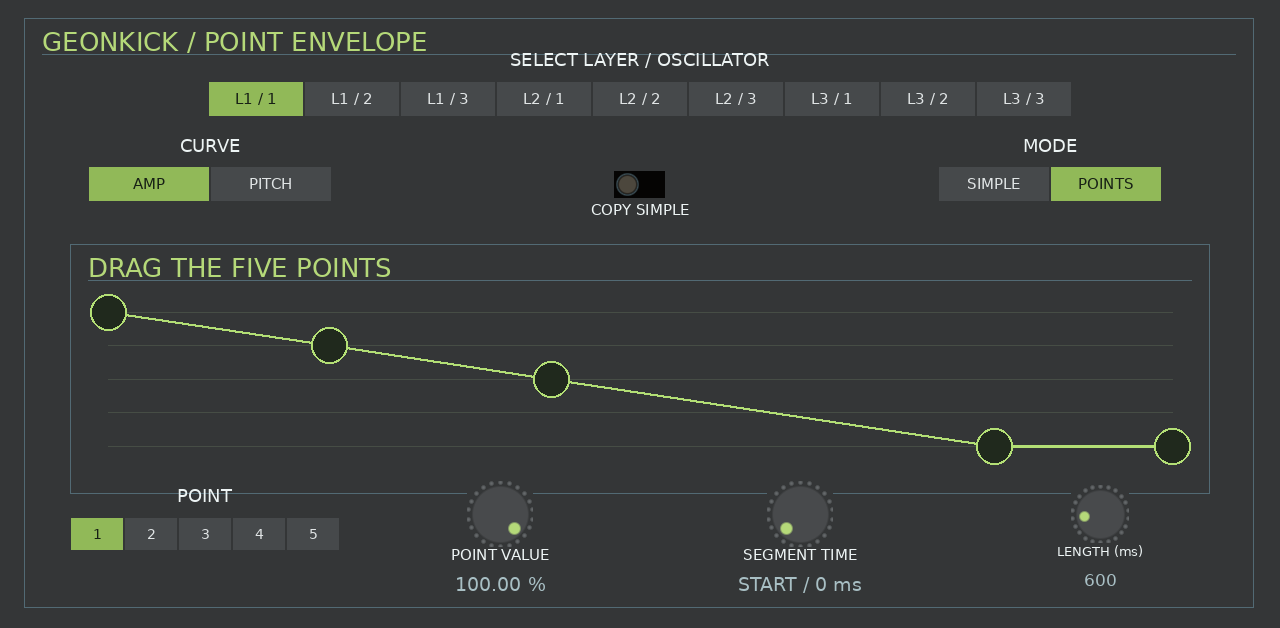
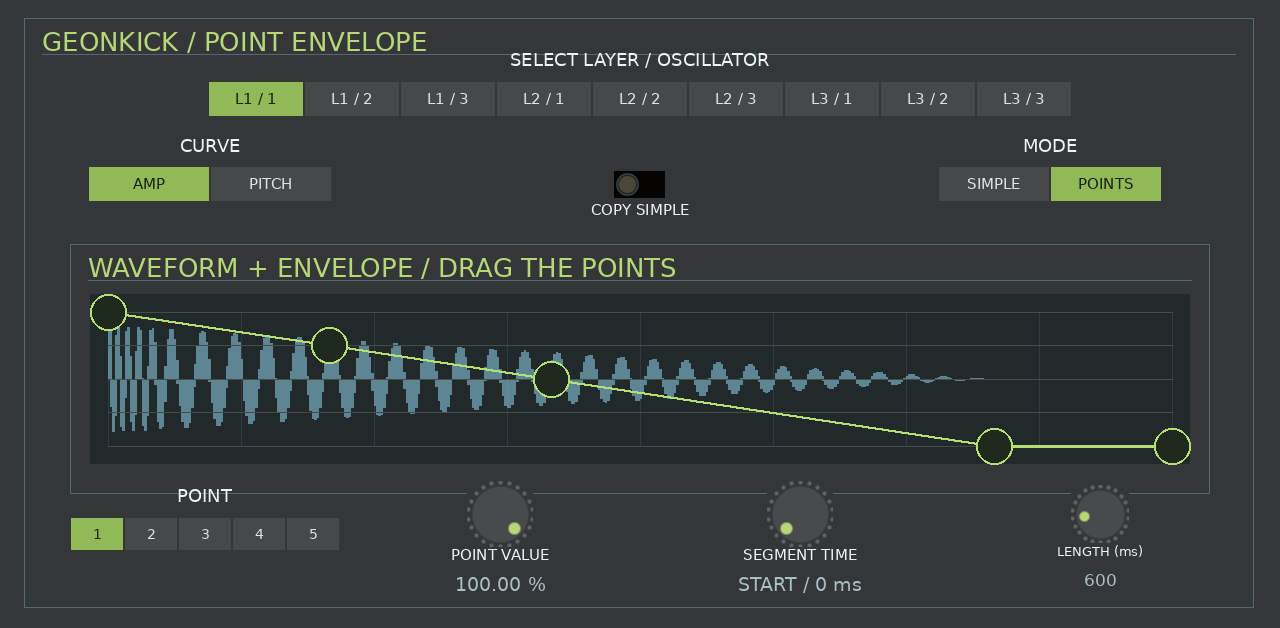
Show rendered waveform under touch-only envelope points in 0.0.13

Changed region(s): [[0.0625, 0.5143, 0.7188, 0.6959], [0.0625, 0.3933, 0.5312, 0.4538]]

diff --git a/tools/finish_skin.py b/tools/finish_skin.py
@@ -200,15 +200,47 @@ envelope_data={
 }
 item=shadow_skin._local('gkPointEnvelope',[],[shadow_skin._sub('Envelope',envelope_data,shadow_skin._bounds(0,0,1100,170),'Curve')])
 page['componentDefinitions']['localComponentDefinitions'].append(item)
-message=Image.new('RGBA',(1100,210),(0,0,0,0));draw=ImageDraw.Draw(message)
-font=ImageFont.truetype(str(root/'art/DejaVuSans.ttf'),24)
-for y,text in [(62,'SIMPLE ENVELOPE ACTIVE'),(108,'Choose POINTS to edit the existing curve.'),(149,'COPY SIMPLE replaces the five points with the current Amp / Pitch settings.')]:
-    draw.text((550,y),text,font=font,anchor='mm',fill='#d7e0d1')
+# Waveform is behind the native editor, so its touch handles remain on top.
+# Reuse the existing shared revision and read-only sound columns.
+for width in (2,3):
+    for channel in ('p','n'):
+        filename=f'plot_edit_{channel}_{width}.png';shutil.copy2(root/'art'/filename,path.parent/filename)
+        item=shadow_skin._local(f'gkEditWave_{channel}_{width}',[],[shadow_skin._sub('Knob',{
+            'version':5,'knobType':'FilmStrip','filmStrip':filename,'numFrames':PLOT_WAVE_LEVELS,
+            'invert':False,'dragOrientation':'Vertical','handleName':'Data'
+        },shadow_skin._bounds(0,0,width,67),'Waveform')])
+        item['value']['ignoreMousePresses']=True
+        page['componentDefinitions']['localComponentDefinitions'].append(item)
+background=Image.new('RGB',(1100,170),'#22292b');draw=ImageDraw.Draw(background)
+for j in range(9):
+    x=18+round(j*1064/8);draw.line((x,18,x,152),fill='#303c3f')
+draw.line((18,85,1082,85),fill='#61747b')
+background.save(path.parent/'point-wave-background.png')
+message=Image.new('RGBA',(1100,22),(0,0,0,0));draw=ImageDraw.Draw(message)
+font=ImageFont.truetype(str(root/'art/DejaVuSans.ttf'),14)
+draw.text((550,11),'SIMPLE ACTIVE / Choose POINTS to edit this envelope over the rendered sound.',font=font,anchor='mm',fill='#d7e0d1')
 message.save(path.parent/'point-simple.png')
 for tab in page['tabs']:
     if tab['fnKeyIndex']!=6:continue
     children=defs[tab['componentName']]['componentsData']
-    note=shadow_skin._sub('Image',{'version':2,'imageType':'Regular','colour':'0','image':'point-simple.png'},shadow_skin._bounds(90,264,1100,210),'Simple envelope')
+    # Clone actions per placed control so other tabs keep their Q-Link behavior.
+    for child in children:
+        mapping=child.get('handle remapping',{}).get('map',[])
+        if any(m.get('key')=='Data' and m.get('value')=='Parameter '+str(ids[k]) for k in ('point_select','point_level_fine','point_time_fine','point_copy') for m in mapping):
+            original=defs.get(child['componentData']['type'])
+            if original:
+                key=child['componentData']['type']+'_pointTouchOnly';clone=deepcopy(original)
+                clone['actions']=[a for a in clone.get('actions',[]) if a.get('handler')!='Q-Link']
+                defs[key]=clone;page['componentDefinitions']['localComponentDefinitions'].append({'key':key,'value':clone})
+                child['componentData']['type']=key;child['bounds']['acceptsHWFocus']='No'
+    children.append(shadow_skin._sub('Image',{'version':2,'imageType':'Regular','colour':'0','image':'point-wave-background.png'},shadow_skin._bounds(90,294,1100,170),'Waveform background'))
+    for column in range(PLOT_COLUMNS):
+        left=108+column*1064//PLOT_COLUMNS;right=108+(column+1)*1064//PLOT_COLUMNS
+        for channel,y in (('p',312),('n',379)):
+            child=shadow_skin._placed(f'gkEditWave_{channel}_{right-left}','Rendered sound',ids[f'viz_{channel}_{column}'],left,y+86,right-left,67,focus='No')
+            child['bounds']['additionalInvalidatingHandles']=['Parameter '+str(ids['graph_revision'])]
+            children.append(child)
+    note=shadow_skin._sub('Image',{'version':2,'imageType':'Regular','colour':'0','image':'point-simple.png'},shadow_skin._bounds(90,466,1100,22),'Simple envelope')
     note['bounds']['additionalInvalidatingHandles']=['IndexedEnabling/0/2/Parameter '+str(ids['ui_point_mode'])]
     children.append(note)
     for osc in range(1,10):

diff --git a/tools/check_point_skin.py b/tools/check_point_skin.py
@@ -7,7 +7,7 @@ params=json.loads((root/'params.json').read_text())['params'];ids={p['key']:i fo
 page=json.loads(next((root/'build/skin').glob('*/Plugin Skins/TUI.json')).read_text())['pageData']
 defs={d['key']:d['value'] for d in page['componentDefinitions']['localComponentDefinitions']}
 assert len(params)==1782
-previous=json.loads(subprocess.check_output(['git','show','712500a:params.json'],cwd=root))['params']
+previous=json.loads(subprocess.check_output(['git','show','f3cd9a7:params.json'],cwd=root))['params']
 assert params[:len(previous)]==previous,'Changed previous VST identities/ranges/defaults'
 for tab in page['tabs']:
     if tab['fnKeyIndex']!=6:continue
@@ -27,3 +27,25 @@ for tab in page['tabs']:
         assert any(p['componentData']['type']=='Knob' and p['componentData']['data']['handleName']=='Touch' for p in d['componentsData'])
         assert {'key':'Touch','value':'Parameter '+str(ids[key.replace('_fine','_drag')])} in c['handle remapping']['map']
 print('1782 append-only VST parameters; 18 native envelopes / 162 point handles; conditional modes and fine/direct point knob bindings PASS')
+# Editor draws the same completed sound behind the draggable curve. No new
+# data channel or per-column host callback path is introduced by this skin.
+for tab in page['tabs']:
+    if tab['fnKeyIndex']!=6:continue
+    children=defs[tab['componentName']]['componentsData']
+    wave=[(i,c) for i,c in enumerate(children) if c['componentData']['type'].startswith('gkEditWave_')]
+    assert len(wave)==864
+    first_curve=min(i for i,c in enumerate(children) if c['componentData']['type']=='gkPointEnvelope')
+    assert max(i for i,c in wave)<first_curve
+    for _,c in wave:
+        assert c['bounds']['additionalInvalidatingHandles']==['Parameter '+str(ids['graph_revision'])]
+        assert defs[c['componentData']['type']]['ignoreMousePresses']
+    point_keys=['point_select','point_level_fine','point_time_fine','point_copy']
+    for c in children:
+        if any(m.get('key')=='Data' and m.get('value')=='Parameter '+str(ids[k]) for k in point_keys for m in c.get('handle remapping',{}).get('map',[])):
+            assert c['bounds']['acceptsHWFocus']=='No'
+            assert not any(a.get('handler')=='Q-Link' for a in defs[c['componentData']['type']].get('actions',[]))
+q=json.loads(next((root/'build/skin').glob('*/Plugin Skins/Q-Links.json')).read_text())
+for m in q['Screen Mode Q-Links']['map']:
+    if m.get('Tab')==7:
+        assert all(v in (-1,ids['length_ms']) for v in m['Q-Links'].values())
+print('Rendered waveform below native point editor, shared quiet-time invalidation and touch-only point controls PASS')

diff --git a/tools/spec.py b/tools/spec.py
@@ -238,7 +238,7 @@ qlink_bounds=column
               'enum_h cx=640 cy=185 sw=94 sh=34 label="SELECT LAYER / OSCILLATOR" key=plot_osc',
               'enum_h cx=210 cy=270 sw=120 sh=34 label="CURVE" key=plot_env options="AMP,PITCH"',
               'toggle cx=640 cy=270 bw=220 label="COPY SIMPLE" key=point_copy',
-              'frame x=70 y=330 w=1140 h=250 title="DRAG THE FIVE POINTS"',
+              'frame x=70 y=330 w=1140 h=250 title="WAVEFORM + ENVELOPE / DRAG THE POINTS"',
               'enum_h cx=205 cy=620 sw=52 sh=32 label="POINT" key=point_select',
               'knob cx=500 cy=600 r=28 bw=220 ns=15 vs=19 label="POINT VALUE" key=point_level_fine when=ui_point_mode:1',
               'knob cx=800 cy=600 r=28 bw=220 ns=15 vs=19 label="SEGMENT TIME" key=point_time_fine when=ui_point_mode:1',
@@ -247,7 +247,7 @@ qlink_bounds=column
         for mode,kind in enumerate(('a','p')):
             target=(osc-1)*2+mode
             lines.append(f'enum_h cx=1050 cy=270 sw=110 sh=34 label="MODE" key=o{osc}_{kind}_mode when=ui_point_target:{target}')
-    lines += ['qlinks "ENVELOPE" = point_select,plot_osc,-,-,point_level_fine,plot_env,-,-,point_time_fine,-,-,-,length_ms,point_copy,-,-']
+    lines += ['qlinks "ENVELOPE" = -,-,-,-,-,-,-,-,-,-,-,-,length_ms,-,-,-']
     # The physical Hz/seconds controls remain for state/old automation. Visible
     # controls use appended fine pitch and millisecond adapters, never reindexing.
     import re

diff --git a/tools/plot_assets.py b/tools/plot_assets.py
@@ -28,3 +28,14 @@ for i in range(9):
     x=30+i*108;d.line((x,23,x,214),fill='#3D4041',width=1)
 d.line((30,119,894,119),fill='#74797B',width=1)
 grid.save(root/'art/plot_grid.png')
+
+# The editor shares the existing 432 actual-sound columns. Only the painted
+# width/height/colour differs; no second sound or display-data path is added.
+for width in (2,3):
+    for channel in ('p','n'):
+        height=67;im=Image.new('RGBA',(width,height*PLOT_WAVE_LEVELS),(0,0,0,0));draw=ImageDraw.Draw(im)
+        for frame in range(1,PLOT_WAVE_LEVELS):
+            length=max(1,round(frame/(PLOT_WAVE_LEVELS-1)*height))
+            y=frame*height+(height-length if channel=='p' else 0)
+            draw.rectangle((0,y,width-1,y+length-1),fill=(111,158,177,200))
+        im.save(root/'art'/f'plot_edit_{channel}_{width}.png')

diff --git a/docs/ENVELOPE-EDITOR.md b/docs/ENVELOPE-EDITOR.md
@@ -1,4 +1,4 @@
-# Point-envelope editor — 0.0.12 prototype
+# Point-envelope editor — 0.0.13 prototype
 
 The pinned original Geonkick UI adds points in `src/envelope_draw_area.cpp`
 (double-click), moves selected points on mouse drag, and removes points through
@@ -14,8 +14,8 @@ Original source: [Geonkick envelope editing](https://github.com/quamplex/geonkic
 The MPC native Envelope component is documented in the local MPC porting
 reference as a draggable fixed five-level/four-time editor (Pitch type), tested
 on a Live III in another port. This is a promising native interaction route;
-0.0.12 implements its parameter bindings in Geonkick MPC, with hardware acceptance
-still pending. The regular
+0.0.12 implements its parameter bindings in Geonkick MPC, with two-dimensional dragging confirmed by the user on Live III.
+The waveform overlay added in 0.0.13 still needs acceptance. The regular
 VST skin does not currently give this adapter raw touch coordinates for a free
 custom drawing area.
 
@@ -23,7 +23,7 @@ The current local prototype:
 
 - Shows a selected oscillator's amplitude or pitch envelope on a separate ENVELOPE tab.
 - Uses the native fixed-point editor, with large touch handles and continuous
-  touch coordinates; keep Q-Link entry precise for the selected point.
+  touch coordinates; point editing is Touch-only from 0.0.13.
 - Adds explicit point-envelope storage and a versioned state migration, retaining
   the existing simple attack/decay mode and the eight starting sounds.
 - Maps and validates point order, segment time, levels and pitch scale; avoid
@@ -58,8 +58,9 @@ Segment Time readout is START / 0 ms and time edits there do nothing. The final
 point is at the end of the sound. There are no crossing or zero-length segments.
 
 Drag handles for direct entry, or choose POINT 1–5 and edit POINT VALUE /
-SEGMENT TIME. Touch knobs are continuous; Q-Links/data wheel step by 0.0001 of
-the stored level/weight. The curve uses the existing synthesis worker and shared
+SEGMENT TIME. Touch knobs are continuous. Point selection, values and Copy Simple have no
+Q-Link assignment or hardware focus from 0.0.13. Fine aliases remain internally
+for compatibility, not as current point-control Q-Link bindings. The curve uses the existing synthesis worker and shared
 quiet-time graph refresh. The native editor geometry is host-rendered; offline
 previews approximate it and cannot prove the actual touch behavior.
 
@@ -72,5 +73,11 @@ curves stay local to their oscillator and Amp/Pitch target.
 Native component schema reference:
 [MPC Plugin Builder SDK ui-reference.md](https://github.com/inmusic-software/mpc-plugin-builder-sdk/blob/febd2ca5bd9eb16c4a412837196e145566bc981b/docs/ui-reference.md#613-envelope-and-envelopeoverlay-advanced-test-on-hardware).
 No proprietary SDK or stock artwork is bundled. The temporary input diagnostic
-is disabled in 0.0.12. Per user instruction this build is prepared locally only;
-no installation, MPC restart or device interaction is part of its verification.
+is disabled in 0.0.12. 0.0.12 was initially prepared locally, then installed at the user’s request.
+The user confirmed point dragging works but requested simultaneous waveform
+visibility. 0.0.13 adds the same completed mixed-sound waveform behind the
+editable curve, using existing read-only columns and shared revision. Read-only
+waveform widgets ignore touch; the native Envelope sits above them. Simple mode
+also shows the waveform. Graph feedback still follows the 180 ms quiet interval.
+Waveform time positions follow the full current sound length; native Envelope
+geometry remains host-controlled and needs alignment checks on the device.

diff --git a/README.md b/README.md
@@ -4,11 +4,13 @@ The MPC adapter, build scripts and interface are AI-generated. The user has test
 problems. The user confirmed the real value jumps are resolved in 0.0.10; a brief
 visual knob rebound remained. Version 0.0.11 separates direct continuous Touch
 handles from fine Q-Link/data-wheel handles on the same physical parameter.
-The user confirmed the 0.0.11 changes work. Version 0.0.12 adds a native fixed-point Amp/Pitch envelope editor; this new editor has not been hardware-tested. The original Geonkick DSP is the
+The user confirmed the 0.0.11 changes work. The user confirmed that 0.0.12 point handles can be dragged in two dimensions.
+Version 0.0.13 adds the completed sound waveform behind those handles and removes
+point-editing Q-Link assignments; the combined view still needs device acceptance. The original Geonkick DSP is the
 work of Iurie Nistor and contributors, not AI-generated.
 
 Development port of [Geonkick 3.9.0](https://github.com/quamplex/geonkick) for
-Gen2 MPCs (aarch64), targeting MPC OS 3.10.1+. Version 0.0.12 is a playable
+Gen2 MPCs (aarch64), targeting MPC OS 3.10.1+. Version 0.0.13 is a playable
 single-instrument prototype, not the complete desktop application.
 
 Implemented:
@@ -50,10 +52,11 @@ Implemented:
 - Thin sliders retain their original visible pixels with transparent padded
   native hit areas (64 pixels high for the main envelope sliders).
 - Native ENVELOPE page: five linear points for Amp and Pitch on each of the
-  nine oscillators, 36-pixel touch handles, fine selected-point Q-Link controls,
+  nine oscillators, 36-pixel touch handles, touch-only selected-point controls,
   Simple/Points modes and Copy Simple. First activation copies the existing curve.
-  Custom points and mode are saved per oscillator/envelope. Hardware acceptance
-  of native curve geometry and gestures is pending.
+  Custom points and mode are saved per oscillator/envelope. The user confirmed dragging on MPC; waveform/curve alignment in the combined
+  view still requires acceptance. The waveform represents the complete mixed
+  hit, with the selected oscillator’s Amp/Pitch points above it.
 - Touch gestures use independent continuous handles for all 46 fine controls.
   Q-Link/data-wheel selection and mapping stay fine; both routes share saved
   physical values. The visible knob follows the direct Touch value, avoiding
@@ -81,7 +84,8 @@ VST (edited Init, 35 ms attack). This is not a device screenshot.
 ![Five-point Amp editor, offline layout preview](docs/screenshots/envelope-amp.png)
 
 Point-editor layout preview uses actual VST values with an approximation of
-the native Envelope geometry. Hardware gestures and geometry remain untested.
+the native Envelope geometry. The user confirmed dragging in 0.0.12; combined
+waveform/curve geometry and redraw performance still require acceptance.
 
 See [BEDIENUNG.md](BEDIENUNG.md) for a German control guide and
 [UI-DESIGN.md](UI-DESIGN.md) for the visualization and editing limits.

diff --git a/BEDIENUNG.md b/BEDIENUNG.md
@@ -1,4 +1,4 @@
-# Geonkick MPC bedienen — 0.0.12
+# Geonkick MPC bedienen — 0.0.13
 
 Ein Plugin erzeugt einen Drum-Sound aus drei Layern mit je drei Oszillatoren.
 Für eine Kick genügt zunächst Layer 1, OSC 1. Layer 2 und 3 starten stumm;
@@ -86,7 +86,7 @@ implementiert; siehe [Machbarkeit](docs/ENVELOPE-EDITOR.md).
 Layer/Oszillator und AMP oder PITCH wählen, dann POINTS. Beim ersten Wechsel
 wird die bisherige einfache Kurve übernommen. Die fünf Kreise lassen sich per
 Touch verschieben; alternativ POINT 1–5 auswählen und POINT VALUE bzw.
-SEGMENT TIME verwenden. Q-Links und Datenrad arbeiten fein, Touch direkt.
+SEGMENT TIME verwenden. Die Punktbearbeitung läuft nur per Touch, ohne Q-Link-Zuweisungen.
 Punkt 1 bleibt bei Zeit null, Punkt 5 am Klangende. LENGTH bestimmt die Gesamtlänge.
 Die vier Abschnittszeiten sind relative Gewichte: Ein längerer Abschnitt verkürzt
 anteilig die anderen. Beim ersten Punkt zeigt die Zeit START / 0 ms.
@@ -98,4 +98,9 @@ den anderen Seiten aktivieren wieder SIMPLE für diese Kurve.
 Amp-Werte sind Prozent, Pitch-Werte Hz (20 Hz bis maximal 16 × Grundfrequenz,
 begrenzt auf 20 kHz). Die Grundfrequenz skaliert die eigene Pitch-Kurve mit.
 Punkte werden im Projekt gespeichert. Freies Hinzufügen/Löschen und Bezier
-folgen später. Der neue native Punkteditor ist noch nicht auf der MPC geprüft.
+folgen später. Das zweidimensionale Verschieben der Punkte wurde auf der MPC bestätigt.
+Ab 0.0.13 bleibt die Wellenform des gesamten gemischten Klangs direkt hinter
+den grünen Hüllkurvenpunkten sichtbar. Sie zeigt den zuletzt fertig berechneten
+Klang und aktualisiert sich nach einer kurzen Bedienpause. Die Kurve darüber
+gehört zum ausgewählten Oszillator (AMP/PITCH). Nur LENGTH behält auf diesem
+Reiter einen Q-Link; Punktwahl, Punktwerte und Copy Simple sind Touch-Bedienung.

diff --git a/TESTING.md b/TESTING.md
@@ -335,3 +335,27 @@ OpenMPC catalog/package validation reports zero warnings. Installer file hashes,
 mandatory scripts, exact tested-library receipts and a scan for private local
 paths/device details/input logger strings pass. The installer remains under
 build/releases only; no Desktop copy, installation or MPC restart was performed.
+
+## 0.0.13 — simultaneous waveform and touch-only point editing
+
+User confirmed XY-like point dragging in 0.0.12 and requested seeing the waveform
+while editing. The 0.0.13 change is in native skin generation and version metadata;
+DSP and saved parameters remain unchanged.
+
+- Native ASan/UBSan/leaks and ARM64 QEMU actual-VST/engine suites pass, including
+  original audio oracle, custom envelope/state compatibility, quiet-time shared
+  refresh and zero audio-thread UI callbacks.
+- Actual-VST-value previews reviewed for Simple, Amp and Pitch. The mixed-hit
+  waveform stays visible behind the point curve. Its readonly components ignore
+  touches and are ordered below the native Envelope.
+- Structural checks verify all 1782 definitions unchanged, 18 native envelope
+  bindings, 864 waveform widgets reusing existing viz_p/viz_n and graph_revision,
+  no Q-Link action/hardware focus for point controls, and only Length mapped on
+  ENVELOPE. All Q-Link mappings outside that page match 0.0.12 exactly.
+- Final skin check has no findings. Portable OpenMPC installer validation passes
+  with zero warnings. No new synthesis pass, derived parameter, graph callback
+  burst or periodic polling path is added by the skin.
+
+Offline image geometry is an approximation. Native waveform/curve alignment and
+redraw performance require user acceptance on the MPC; the additional visible
+waveform widgets are not covered by an offline CPU/audio claim.

diff --git a/UI-DESIGN.md b/UI-DESIGN.md
@@ -146,3 +146,20 @@ unchanged. All 18 custom curves are stored independently. See
 Offline composites approximate the host-rendered native Envelope geometry.
 Real MPC touch and curve alignment require later hardware acceptance. This
 build is not installed, per the user's explicit one-build instruction.
+
+
+## 0.0.13 — waveform and editable curve together
+
+The user confirmed native XY-like dragging in 0.0.12, but rejected editing without
+the waveform. ENVELOPE now draws the completed mixed-hit waveform in muted blue
+gray underneath the green point curve. The waveform remains visible in Simple
+mode too. Existing 432 read-only sound columns and graph_revision are reused;
+no new display-data parameters or per-column callbacks are introduced. Widths of
+2/3 pixels fill the editor region. Waveform components ignore touches and precede
+the native editable Envelope. Native geometry/alignment and the cost of another
+visible waveform view still need real MPC acceptance.
+
+Point selection/value/time/copy controls have no Q-Link assignments or hardware
+focus. Their local Q-Link actions are removed without changing other pages.
+Only Length remains mapped on ENVELOPE. The underlying parameters and fine aliases
+remain for saved projects and compatibility. Other tabs’ Q-Link maps stay intact.

diff --git a/ROADMAP.md b/ROADMAP.md
@@ -65,3 +65,11 @@ Target: Gen2 / aarch64, MPC OS 3.10.1+. Early builds tested by the user on Live 
 
 The remaining JC303 feature-parity items stay deferred. Following targets:
 Fire, Wolf Shaper, BYOD navigation feasibility review, then Surge.
+
+
+0.0.12 was subsequently installed on explicit request. User confirmed that the
+points can be moved in two dimensions. 0.0.13 keeps the rendered mixed-hit waveform
+visible behind the draggable envelope, removes point-editing Q-Link assignments
+and hardware focus, and retains the existing quiet-time graph refresh. Five fixed
+points remain; arbitrary insertion/deletion is a separate future task. Combined
+view alignment and redraw performance need device acceptance.
